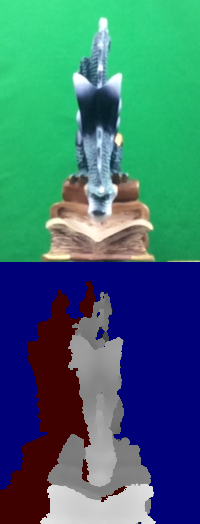
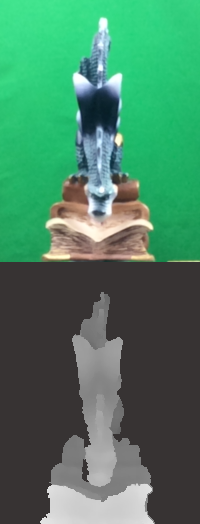
Blump depth editing support.

diff --git a/src/blump.js b/src/blump.js
@@ -2,7 +2,8 @@ var BLUMP = (function () {
     "use strict";
 
     var gammaMap = [],
-        MAX_VERTICIES = Math.pow(2, 16);
+        MAX_VERTICIES = Math.pow(2, 16),
+        NO_DEPTH = [5, 0, 0, 204];
 
     (function () {
         for (var v = 0; v < IMPROC.BYTE_MAX; ++v) {
@@ -34,8 +35,8 @@ var BLUMP = (function () {
         var zScale = 0,
             zOffset = 0,
             isCalibrated = false,
-            start = 450,
-            range = defaultRange ? defaultRange : 210,
+            start = 0.45,
+            range = defaultRange ? defaultRange : 0.20,
             depths = new Float32Array(width * height);
         IMPROC.processImage(image, left, top, width, height,
             function (x, y, r, g, b, a) {
@@ -48,9 +49,9 @@ var BLUMP = (function () {
                             }
                         } else if (isCalibrated) {
                             if (x == 1) {
-                                range = decodeValue(r, g, b);
+                                range = decodeValue(r, g, b) / 1000;
                             } else if (x == 2) {
-                                start = decodeValue(r, g, b);
+                                start = decodeValue(r, g, b) / 1000;
                             }
                         }
                     } else if (y === 1 && isCalibrated) {
@@ -61,23 +62,18 @@ var BLUMP = (function () {
                         value = (r / 255.0) * range;
                     }
                 }
-                depths[y * width + x] = value / 1000.0;
+                depths[y * width + x] = value;
             }
         );
         return depths;
     }
 
     function flattenDepthImage(context, x, y, width, height) {
-        var pixels = context.getImageData(x, y, width, height),
-            pixel = [];
+        var pixels = context.getImageData(x, y, width, height);
         IMPROC.processPixels(pixels.data, width, height, function(x, y, r, g, b, a) {
             if (r != g || r != b || g != b) {
-                r = 1; // So it fails the check when being read back as depth
-                g = b = 0;
-                a = 128;
+                return NO_DEPTH;
             }
-            pixel[0] = r; pixel[1] = g; pixel[2] = b; pixel[3] = a;
-            return pixel;
         });
         context.putImageData(pixels, x, y);
     }
@@ -413,6 +409,8 @@ var BLUMP = (function () {
         this.resource = resource;
         this.angle = R2.clampAngle(angle * R2.DEG_TO_RAD);
         this.image = null;
+        this.pixelSize = 0.001;
+        this.depthRange = 0.21;
         this.mesh = null;
         this.visible = true;
         this.offset = R3.origin();
@@ -432,10 +430,25 @@ var BLUMP = (function () {
     };
 
     Blump.prototype.construct = function (atlas) {
-        var builder = setupForPaired(this.image, 0.001, atlas),
-            depths = builder.depthFromPaired(this.image, false, 210);
-        builder.setAlignment(0.5, 0.5, -0.105);
-        this.mesh = builder.constructSurface(depths, atlas.texture());
+        this.constructFromImage(this.image, atlas);
+    };
+
+    Blump.prototype.constructFromImage = function (image, atlas) {
+        var width = image.width,
+            height = image.height / 2,
+            builder = new Builder(width, height, this.pixelSize),
+            depths = builder.depthFromPaired(image, false, this.depthRange);
+        builder.setAlignment(0.5, 0.5, -this.depthRange/2);
+
+        if (atlas) {
+            this.atlas = atlas;
+            this.textureCoords = atlas.add(image, 0, 0, width, height);
+        }
+        if (this.textureCoords) {
+            builder.setupTextureSurface(this.textureCoords);
+        }
+
+        this.mesh = builder.constructSurface(depths, this.atlas.texture());
         this.mesh.dynamic = true;
         this.reposition();
     };
@@ -460,29 +473,66 @@ var BLUMP = (function () {
         this.mesh.updated = true;
     };
 
+    function unmultiplyChannel(value, alpha) {
+        return Math.min(IMPROC.BYTE_MAX, Math.round(value / alpha));
+    }
+
+    function unmultiplyAlpha(color) {
+        var a = color[3],
+            alpha = a / IMPROC.BYTE_MAX;
+        return [
+            unmultiplyChannel(color[0], alpha),
+            unmultiplyChannel(color[1], alpha),
+            unmultiplyChannel(color[2], alpha),
+            a
+        ];
+    }
+
     function BlumpEdit(viewport) {
         this.maximize = viewport === "safe";
         this.updateInDraw = true;
+        this.preventDefaultIO = true;
         this.blump = null;
         this.zoom = 4;
         this.xOffset = 0;
         this.yOffset = 0;
         this.alpha = document.getElementById("sliderAlpha");
-        this.depthCanvas = null;
-        this.depthContext = null;
         this.preview = document.getElementById("canvasPreview");
         this.previewContext = this.preview.getContext("2d");
+        this.brushColor = unmultiplyAlpha(NO_DEPTH);
+        this.dirty = false;
     }
 
     BlumpEdit.prototype.update = function (now, elapsed, keyboard, pointer) {
+        if (!this.blump) {
+            return;
+        }
         if (pointer.primary) {
+            var pixelX = Math.floor((pointer.primary.x - this.xOffset) / this.zoom),
+                pixelY = Math.floor((pointer.primary.y - this.yOffset) / this.zoom) +
+                         this.preview.height / 2;
             if (pointer.mouse.shift) {
+                this.previewContext.fillStyle = "rgba(" + this.brushColor.join(",") + ")";
+                this.previewContext.clearRect(pixelX, pixelY, 1, 1);
+                this.previewContext.save();
+                if (this.brushColor[3] != 255) {
+                    this.previewContext.globalAlpha = this.brushColor[3] / 255;
+                }
+                this.previewContext.fillRect(pixelX, pixelY, 1, 1);
+                this.previewContext.restore();
+                this.dirty = true;
             } else if (pointer.mouse.ctrl) {
+                var pixelData = this.previewContext.getImageData(pixelX, pixelY, 1, 1);
+                this.brushColor = unmultiplyAlpha(pixelData.data);
             } else if (pointer.mouse.alt) {
             } else {
                 this.xOffset += pointer.primary.deltaX;
                 this.yOffset += pointer.primary.deltaY;
             }
+        } else if (this.dirty) {
+            this.blump.constructFromImage(this.preview);
+            this.dirty = false;
+            postUpdate(this.preview, this.blump.resource);
         }
 
         var oldZoom = this.zoom;
@@ -521,9 +571,9 @@ var BLUMP = (function () {
             );
             context.globalAlpha = alpha;
             context.drawImage(
-                this.depthCanvas,
-                0, 0,
-                this.depthCanvas.width, this.depthCanvas.height,
+                this.preview,
+                0, blumpHeight,
+                this.preview.width, blumpHeight,
                 this.xOffset, this.yOffset,
                 scaleWidth, scaleHeight
             );
@@ -531,53 +581,43 @@ var BLUMP = (function () {
         context.restore();
     };
 
+    function postUpdate(canvas, resource) {
+        canvas.toBlob(function (blob) {
+            var objectURL = window.URL.createObjectURL(blob),
+                saveLink = document.createElementNS("http://www.w3.org/1999/xhtml", "a");
+            setTimeout(function() {
+                saveLink.href = objectURL;
+                saveLink.download = resource;
+                saveLink.innerHTML = "Save Image";
+
+                var div = document.getElementById("divSave");
+                div.innerHTML = "";
+                div.appendChild(saveLink);
+            });
+        });
+    }
+
     BlumpEdit.prototype.editBlump = function (blump) {
         this.blump = blump;
-        this.depthCanvas = document.createElement('canvas');
-        var width = blump.image.width,
-            height = blump.image.height / 2;
-        this.depthCanvas.width = width;
-        this.depthCanvas.height = height;
-        this.depthContext = this.depthCanvas.getContext('2d');
-        this.depthContext.drawImage(blump.image, 0, height, width, height, 0, 0, width, height);
-        flattenDepthImage(this.depthContext, 0, 0, width, height);
-        this.setupSave();
-    };
-
-    BlumpEdit.prototype.setupSave = function () {
-        if (this.blump) {
-            var canvas = this.preview,
-                context = this.previewContext,
-                w = this.blump.image.width,
-                h = this.blump.image.height,
-                style = "width: " + w / 8 + "px; height: " + h / 8 + "px;";
-                self = this;
-            canvas.width = w;
-            canvas.height = h;
-            self.previewContext.clearRect(0, 0, w, h);
-            context.drawImage(this.blump.image, 0, 0, w, h/2, 0, 0, w, h/2);
-            context.drawImage(this.depthCanvas, 0, h/2, w, h/2);
-            canvas.style = style;
-            canvas.toBlob(function (blob) {
-                var objectURL = window.URL.createObjectURL(blob),
-                    saveLink = document.createElementNS("http://www.w3.org/1999/xhtml", "a");
-                setTimeout(function() {
-                    saveLink.href = objectURL;
-                    saveLink.download = self.blump.resource;
-                    saveLink.innerHTML = "Save Image";
-
-                    var div = document.getElementById("divSave");
-                    div.innerHTML = "";
-                    div.appendChild(saveLink);
-                });
-            });
-        }
+        var canvas = this.preview,
+            context = this.previewContext,
+            w = blump.image.width,
+            h = blump.image.height,
+            style = "width: " + w / 8 + "px; height: " + h / 8 + "px;";
+        canvas.width = w;
+        canvas.height = h;
+        this.previewContext.clearRect(0, 0, w, h);
+        context.drawImage(this.blump.image, 0, 0, w, h);
+        flattenDepthImage(context, 0, h / 2, w, h / 2);
+        canvas.style = style;
+        postUpdate(this.preview, this.blump.resource);
     };
 
     function BlumpTest(viewport, baseName, editor) {
         this.clearColor = [0, 0, 0, 1];
         this.maximize = viewport === "safe";
         this.updateInDraw = true;
+        this.preventDefaultIO = true;
         this.viewport = viewport ? viewport : "canvas";
         this.editor = editor;
         this.thing = null;
@@ -696,7 +736,7 @@ var BLUMP = (function () {
                     self.activeBlump.reposition();
                 }
             }),
-            reload = document.getElementById("reload");
+            reload = document.getElementById("buttonReload");
 
         function initialize() {
             initAngle(self.activeBlump.angle * R2.RAD_TO_DEG);

diff --git a/src/io.js b/src/io.js
@@ -91,7 +91,7 @@ var IO = (function (TICK, BLORT) {
         return this.pressed[keyCode];
     };
 
-    function Mouse(element) {
+    function Mouse(element, preventDefault) {
         this.location = [0, 0];
         this.left = false;
         this.middle = false;
@@ -133,7 +133,8 @@ var IO = (function (TICK, BLORT) {
             }
         }
 
-        var self = this;
+        var self = this,
+            capture = preventDefault;
         function mouseButtons(event, eventType) {
             if ('buttons' in event) {
                 return event.buttons;
@@ -177,6 +178,10 @@ var IO = (function (TICK, BLORT) {
             self.shift = event.shiftKey;
             self.ctrl = event.ctrlKey;
             self.altKey = event.altKey;
+
+            if (preventDefault) {
+                event.preventDefault();
+            }
         };
 
         var updateWheel = function (event) {
@@ -189,15 +194,15 @@ var IO = (function (TICK, BLORT) {
         };
 
         element.addEventListener(
-            "mousemove", function(event) { updateState(event, "move"); }
+            "mousemove", function(event) { updateState(event, "move"); }, capture
         );
         element.addEventListener(
-            "mousedown", function(event) { updateState(event, "down"); }
+            "mousedown", function(event) { updateState(event, "down"); }, capture
         );
         element.addEventListener(
-            "mouseup", function(event) { updateState(event, "up"); }
+            "mouseup", function(event) { updateState(event, "up"); }, capture
         );
-        element.addEventListener("wheel", updateWheel);
+        element.addEventListener("wheel", updateWheel, true);
     }
 
     Mouse.prototype.postUpdate = function () {
@@ -240,8 +245,8 @@ var IO = (function (TICK, BLORT) {
         return null;
     };
 
-    function Pointer(element) {
-        this.mouse = new Mouse(element);
+    function Pointer(element, preventDefault) {
+        this.mouse = new Mouse(element, preventDefault);
         this.touch = new Touch(element);
         this.firstTouch = null;
         this.primary = null;

diff --git a/blumpAll.html b/blumpAll.html
@@ -59,27 +59,27 @@
                 <button id="buttonReload" type="button">Reload</button>
                 <div>
                     <div class="slider">
-                        <div>Angle:</div>
+                        <div class="beside">Angle:</div>
                         <input type="number" class="angleValue" id="valueAngle">
                         <input class="angleSlider" id="sliderAngle" type="range" min="-180" max= "180" value="0">
                     </div>
                     <div class="slider">
-                        <div>LR-Offset:</div>
+                        <div class="beside">LR-Offset:</div>
                         <input type="number" class="linearValue" id="valueX">
                         <input class="linearSlider" id="sliderX" type="range" min="-0.5" max= "0.5" step="0.001" value="0">
                     </div>
                     <div class="slider">
-                        <div>FB-Offset:</div>
+                        <div class="beside">FB-Offset:</div>
                         <input type="number" class="linearValue" id="valueZ">
                         <input class="linearSlider" id="sliderZ" type="range" min="-0.5" max= "0.5" step="0.001" value="0">
                     </div>
                     <div class="slider">
-                        <div>Vertical Offset:</div>
+                        <div class="beside">Vertical Offset:</div>
                         <input type="number" class="linearValue" id="valueY">
                         <input class="linearSlider" id="sliderY" type="range" min="-0.5" max= "0.5" step="0.001" value="0">
                     </div>
                     <div class="slider">
-                        <div>Scale:</div>
+                        <div class="beside">Scale:</div>
                         <input type="number" class="linearValue" id="valueScale">
                         <input class="linearSlider" id="sliderScale" type="range" min="0.5" max= "1.5" step="0.001" value="1">
                     </div>

diff --git a/src/main.js b/src/main.js
@@ -25,7 +25,7 @@ var MAIN = (function () {
     }
 
     function setupUpdate(game, canvas) {
-        var pointer = new IO.Pointer(canvas),
+        var pointer = new IO.Pointer(canvas, game.preventDefaultIO),
             keyboard = new IO.Keyboard(game.inputElement ? game.inputElement : window, game.consumeKeys),
             lastTime = TICK.now();
 

diff --git a/style.css b/style.css
@@ -19,6 +19,8 @@ html, body {
 
 .angleValue {
     width: 100px;
+    float: right;
+    margin-right: 30px;
 }
 
 .linearSlider {
@@ -28,6 +30,8 @@ html, body {
 
 .linearValue {
     width: 100px;
+    float: right;
+    margin-right: 30px;
 }
 
 .controls {
